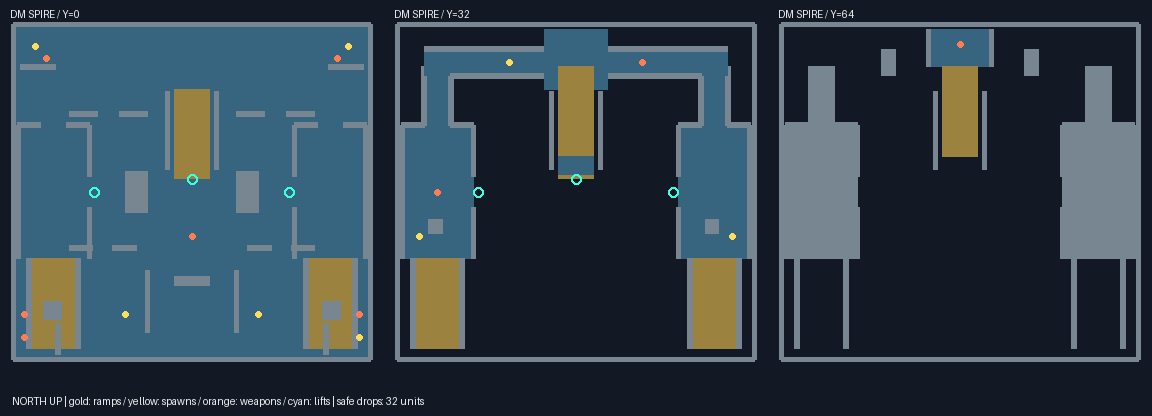
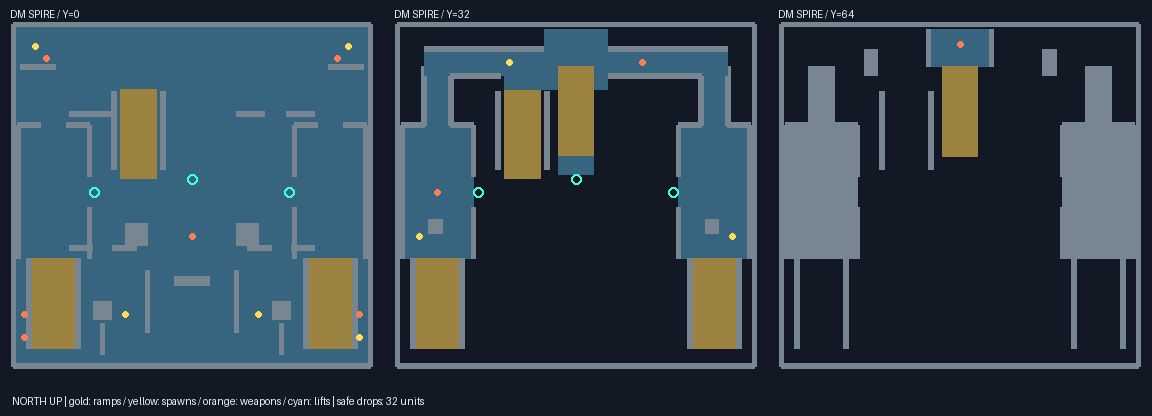
Spire: clear the ramp obstructions and open the central ramp's top end

diff --git a/tools/mapgen/examples/dm_spire.py b/tools/mapgen/examples/dm_spire.py
@@ -50,6 +50,8 @@ def _gaps(lo, hi, gap):
     if gap is None:
         return [(lo, hi)]
     ga, gb = gap
+    if gb <= lo or ga >= hi:
+        return [(lo, hi)]
     ga, gb = max(lo, ga), min(hi, gb)
     out = []
     if ga - lo > 0.5:
@@ -101,12 +103,12 @@ def face(dx, dz):
 
 # Sealed footprint, three walkable bands separated by a safe 32-unit drop.
 GND, MID, TOP = 0, 32, 64
-floor_slab("foundation", -160,160,-150,150,0)
-ceiling_slab("ceiling", -160,160,-150,150,108)
-wall_x("west shell",-160,-150,150,0,108)
-wall_x("east shell",160,-150,150,0,108)
+floor_slab("foundation", -160,160,-150,156,0)
+ceiling_slab("ceiling", -160,160,-150,156,108)
+wall_x("west shell",-160,-150,156,0,108)
+wall_x("east shell",160,-150,156,0,108)
 wall_z("north shell",-150,-160,160,0,108)
-wall_z("south shell",150,-160,160,0,108)
+wall_z("south shell",156,-160,160,0,108)
 
 # Two lateral towers: broad raised rooms and independent ground access ramps.
 for side in (-1,1):
@@ -131,15 +133,19 @@ for side in (-1,1):
     x0,x1=(24,136) if side==1 else (-136,-24)
     floor_slab(f"bridge {side} cross leg",x0,x1,-128,-104,MID)
     wall_z(f"bridge {side} north rail",-128,x0,x1,MID,MID+10)
-    wall_z(f"bridge {side} south rail",-104,x0,x1,MID,MID+10,gap=(a+20,b-20))
-    box_obstacle(f"bridge {side} hanging baffle",side*64-6,side*64+6,58,86,-128,-104,"bulkhead.bmp")
+    rail_spans = [(x0, -68), (-28, x1)] if side == -1 else [(x0, x1)]
+    for rail_x0, rail_x1 in rail_spans:
+        wall_z(f"bridge {side} south rail",-104,rail_x0,rail_x1,MID,MID+10,gap=(a+20,b-20))
+    box_obstacle(f"bridge {side} hanging baffle",side*80-6,side*80+6,60,88,-128,-104,"bulkhead.bmp")
 
 # North tower landing and high gallery: ramp, lift and safe drop choices.
 floor_slab("spire mid landing",-28,28,-146,-92,MID)
-ramp_block_z("spire ground ramp",-16,16,-12,-92,0,MID)
-# Side walls stop at the landing so both bridges connect without obstructions.
-wall_x("spire ramp west",-22,-90,-20,0,108)
-wall_x("spire ramp east",22,-90,-20,0,108)
+ramp_block_z("spire ground ramp",-64,-32,-12,-92,0,MID)
+floor_slab("spire ground ramp landing",-64, -16,-104,-92,MID)
+# Offset the ground route from the upper ramp: no low ceiling at its exit.
+# The 12-unit landing joins the west bridge and the original spire landing.
+wall_x("spire ramp west",-70,-90,-20,0,108)
+wall_x("spire ramp east",-26,-90,-20,0,108)
 floor_slab("spire high gallery",-28,28,-146,-112,TOP)
 ramp_block_z("spire upper ramp",-16,16,-32,-112,MID,TOP)
 # Mid ramp toe is served by an open elevated courtyard spur.
@@ -150,16 +156,16 @@ wall_x("spire top east",28,-146,-112,TOP,104)
 # Ground route dividers form four connected courts; doorways provide loops.
 for side in (-1,1):
     wall_z(f"south court divider {side}",50,side*80-30,side*80+30,0,28,gap=(side*80-9,side*80+9))
-    wall_z(f"north court divider {side}",-70,side*75-35,side*75+35,0,28,gap=(side*75-10,side*75+10))
+    wall_z(f"north court divider {side}",-70,side*75-35,side*75+35,0,28,gap=((-68,-28) if side == -1 else (65,85)))
     wall_x(f"south court elbow {side}",side*40,70,126,0,28)
-    box_obstacle(f"courtyard reactor {side}",side*50-10,side*50+10,0,28,-18,18,"labpanel.bmp")
-    box_obstacle(f"south court crate {side}",side*125-8,side*125+8,0,10,98,114,"hazard.bmp")
+    box_obstacle(f"courtyard reactor {side}",side*50-10,side*50+10,0,28,28,48,"labpanel.bmp")
+    box_obstacle(f"south court crate {side}",side*80-8,side*80+8,0,10,98,114,"hazard.bmp")
 # Offset tall cover in the central south court.
 box_obstacle("south central screen",-16,16,0,28,76,84,"bulkhead.bmp")
 
 for side in (-1,1):
     wall_z(f"north spawn screen {side}",-112,side*138-16,side*138+16,0,28)
-    wall_x(f"south spawn screen {side}",side*120,118,146,0,28)
+    wall_x(f"south spawn screen {side}",side*80,118,146,0,28)
 
 DM_SPAWNS = [(-140,2,-130),(140,2,-130),(-150,2,130),(150,2,130),
              (-60,2,110),(60,2,110),(-140,34,40),(140,34,40),

diff --git a/tools/tests/test_dm_spire.py b/tools/tests/test_dm_spire.py
@@ -24,6 +24,35 @@ class SpireTests(unittest.TestCase):
         code, output = run('data/dmspire', 'spire.pd1', '--sealed')
         self.assertEqual(code, 0, output)
         self.assertIn('DMCHECK OK', output)
+        self.assertIn('METRIC walkable_ramps 4', output)
+
+    def test_ramp_clearance_and_landings(self):
+        doc = runpy.run_path(str(ROOT / 'tools/mapgen/examples/dm_spire.py'))['build_doc']()
+        ramps = [b for b in doc['blocks'] if 'vertices' in b]
+        self.assertEqual(len(ramps), 4)
+        for ramp in ramps:
+            v = ramp['vertices']
+            x0, x1, z0, z1 = v[0][0], v[1][0], v[0][2], v[2][2]
+            for z in range(int(z0) - 12, int(z1) + 13, 2):
+                t = max(0, min(1, (z - z0) / (z1 - z0)))
+                y = v[0][1] + t * (v[2][1] - v[0][1])
+                for x in (x0 + 3, (x0 + x1) / 2, x1 - 3):
+                    for block in doc['blocks']:
+                        if block is ramp:
+                            continue
+                        if 'vertices' in block:
+                            bounds = list(zip(*block['vertices']))
+                            lo, hi = list(map(min, bounds)), list(map(max, bounds))
+                        else:
+                            lo, hi = block['min'], block['max']
+                        if lo[0] <= x <= hi[0] and lo[2] <= z <= hi[2]:
+                            self.assertFalse(hi[1] > y + 0.1 and lo[1] < y + 28,
+                                             (ramp['comment'], x, y, z, block['comment']))
+                    if z < z0 or z > z1:
+                        self.assertTrue(any('min' in b and b['min'][0] <= x <= b['max'][0]
+                                            and b['min'][2] <= z <= b['max'][2]
+                                            and b['max'][1] == y for b in doc['blocks']),
+                                        (ramp['comment'], 'missing landing', x, y, z))
 
     def test_deterministic_pictures(self):
         with tempfile.TemporaryDirectory() as tmp:

diff --git a/docs/DM-SPIRE.md b/docs/DM-SPIRE.md
@@ -4,7 +4,7 @@ Original sealed reactor outpost: west and east towers bracket a courtyard;
 a north spire carries a high gallery. Ten protected spawns and eight pickups
 span y=0, 32 and 64. Three gravity lifts reach the middle level. Four ramps
 provide alternate travel: two tower ramps, the north ground ramp, and the
-stacked upper ramp. North dogleg halls connect the towers to railed bridges;
+upper ramp. North dogleg halls connect the towers to railed bridges;
 hanging baffles interrupt views from above. Drop one band at a time (32
 units) for a safe descent. The ground dividers have openings at both ends
 and doorways through their middle, providing routes around the reactors.
@@ -25,39 +25,86 @@ and overhead structures intersecting player height.
 Regenerate from the repository root:
 
 ```sh
-python3 tools/mapgen/examples/dm_spire.py
-python3 -m tools.mapgen build tools/mapgen/examples/dm_spire.json -o assets/pack/data/dmspire --pd1-name spire.pd1
+python3 tools/rebuild_maps.py
 python3 -c 'from pathlib import Path; from tools.artgen.briefing_pictures import generate_dmspire, generate_spire_layout; generate_dmspire(Path("assets/pack/data/briefing")); generate_spire_layout(Path("docs/img/dm/spire_layout.png"))'
 python3 tools/dmcheck.py data/dmspire spire.pd1 --sealed
 python3 -W ignore -m unittest discover -s tools/tests
 ```
 
-Measured native engine gate: 72 blocks, 7,596 standing spots, 97,808 units
-of connected play area; all three lifts settle at y=32.3. Sightline fraction
-0.199, worst spawn exposure 0.21, trapped fraction 0.0000, ambiguous ledges
-0 and void leaks 0 (2,038 samples). Result: `DMCHECK OK`.
+The tower ramp lanes are clear of the south court crates and spawn screens,
+which now sit at x=±80. The south shell extends to z=156, leaving more than
+12 units of floor beyond each tower ramp toe. The ground spire ramp runs
+at x=-48, beside the upper ramp, with a 12-unit landing and an opening in
+the west bridge rail. The reactors sit south of the ground ramp entrance;
+the bridge baffles move outward and start at y=60 for 28 units of clearance
+above the bridge. Towers, both bridges, four ramps and three lifts remain.
 
-The native gate validates collision, lift physics and connectivity. Browser
-play and visual verification were not performed.
+Source regression checks cover all four ramp surfaces and 12 units beyond
+both ends: clear floor at the ends and at least 28 units of headroom.
+The sealed real-engine gate remains mandatory and walks every ramp both ways.
 
-Full requested unittest discovery on 2026-10-21 ran 300 tests in 32.844s:
-`FAILED (failures=2, errors=1)`. The blockers are external to the arena:
+Measured native engine gate (2026-10-22): 73 blocks, 7,828 standing spots,
+102,800 units of connected play area, four walkable ramps; all three lifts
+settle at y=32.3. Sightline fraction 0.231, worst spawn exposure 0.22,
+trapped fraction 0.0000, ambiguous ledges 0, void leaks 0 (2,142 samples).
+Result: `DMCHECK OK`. No thresholds or engine/gate sources were changed.
 
-- `test_char_atlas.CharAtlasTest.setUpClass`: Shinonome font tarball download
-  fails with `Temporary failure in name resolution`.
-- `test_net_protocol`: LeakSanitizer reports a fatal sandbox/ptrace error.
-- `test_sync_manifest_status`: `data/missions.txt` has a stale generated hash
-  because this mission changes the list. The shared manifest is deliberately
-  untouched; its hash needs updating during integration alongside the sidecar.
+Browser play and visual verification were not performed.
 
-No thresholds or engine/gate sources were changed. The engine harness's
-mission-count assertion remains exact, now six.
+Validation on 2026-10-22:
 
-Targeted rerun with `ASAN_OPTIONS=detect_leaks=0` passed all 18 tests in
-2.199s (`test_net_protocol`, `test_dm_maps`, `test_dm_spire`). This verifies
-protocol assertions but does not establish leak freedom. The sealed gate
-was rerun afterward and again printed `DMCHECK OK`.
+- `python3 tools/geomcheck.py --all`: zero visible coplanar overlaps in every map.
+- Pack validator: `RESULT: OK  (0 failures, 360 warnings)`.
+- Full unittest discovery: `Ran 315 tests in 36.118s`,
+  `FAILED (failures=2, errors=1)`. The font atlas cannot download the
+  Shinonome tarball (DNS unavailable); the unchanged HANGAR map fails the
+  ramp gate for blocks 42, 45 and 48 (bottom ends blocked); protocol testing
+  hits LeakSanitizer's sandbox/ptrace restriction.
+- Required rerun with `ASAN_OPTIONS=detect_leaks=0 LSAN_OPTIONS=detect_leaks=0`
+  of protocol and SPIRE tests: `Ran 7 tests in 2.140s`, `OK`.
+  This verifies protocol assertions without checking leaks.
 
-Commit was attempted but the sandbox mounts this worktree's Git metadata
-read-only: Git cannot create `index.lock`. Changes remain uncommitted; no
-push was attempted.
+Exact sealed SPIRE gate output:
+
+```text
+METRIC blocks 73
+METRIC extent_x 324
+METRIC extent_z 310
+METRIC extent_y 114
+METRIC standing_spots 7828
+METRIC floor_area 125248
+METRIC dm_spawns 10
+METRIC pickups 8
+METRIC lifts 3
+METRIC lift_0_peak 34.9
+METRIC lift_0_rest_y 32.3
+METRIC lift_1_peak 34.9
+METRIC lift_1_rest_y 32.3
+METRIC lift_2_peak 34.9
+METRIC lift_2_rest_y 32.3
+METRIC play_spots 6425
+METRIC play_area 102800
+METRIC trapped_fraction 0.0000
+METRIC sightline_fraction 0.231
+METRIC longest_sightline 347
+METRIC spawn_0_exposure 0.18
+METRIC spawn_1_exposure 0.22
+METRIC spawn_2_exposure 0.01
+METRIC spawn_3_exposure 0.01
+METRIC spawn_4_exposure 0.13
+METRIC spawn_5_exposure 0.14
+METRIC spawn_6_exposure 0.09
+METRIC spawn_7_exposure 0.20
+METRIC spawn_8_exposure 0.20
+METRIC spawn_9_exposure 0.22
+METRIC worst_spawn_exposure 0.22
+METRIC ambiguous_ledges 0
+METRIC walkable_ramps 4
+METRIC void_leaks 0 (from 2142 spots)
+DMCHECK OK
+```
+
+Commit was attempted but Git could not create
+`/home/ivy/Work/xops-online/.git/worktrees/fix-spire-ramps/index.lock`:
+`Read-only file system`. Changes remain uncommitted in this worktree;
+no push was attempted.
